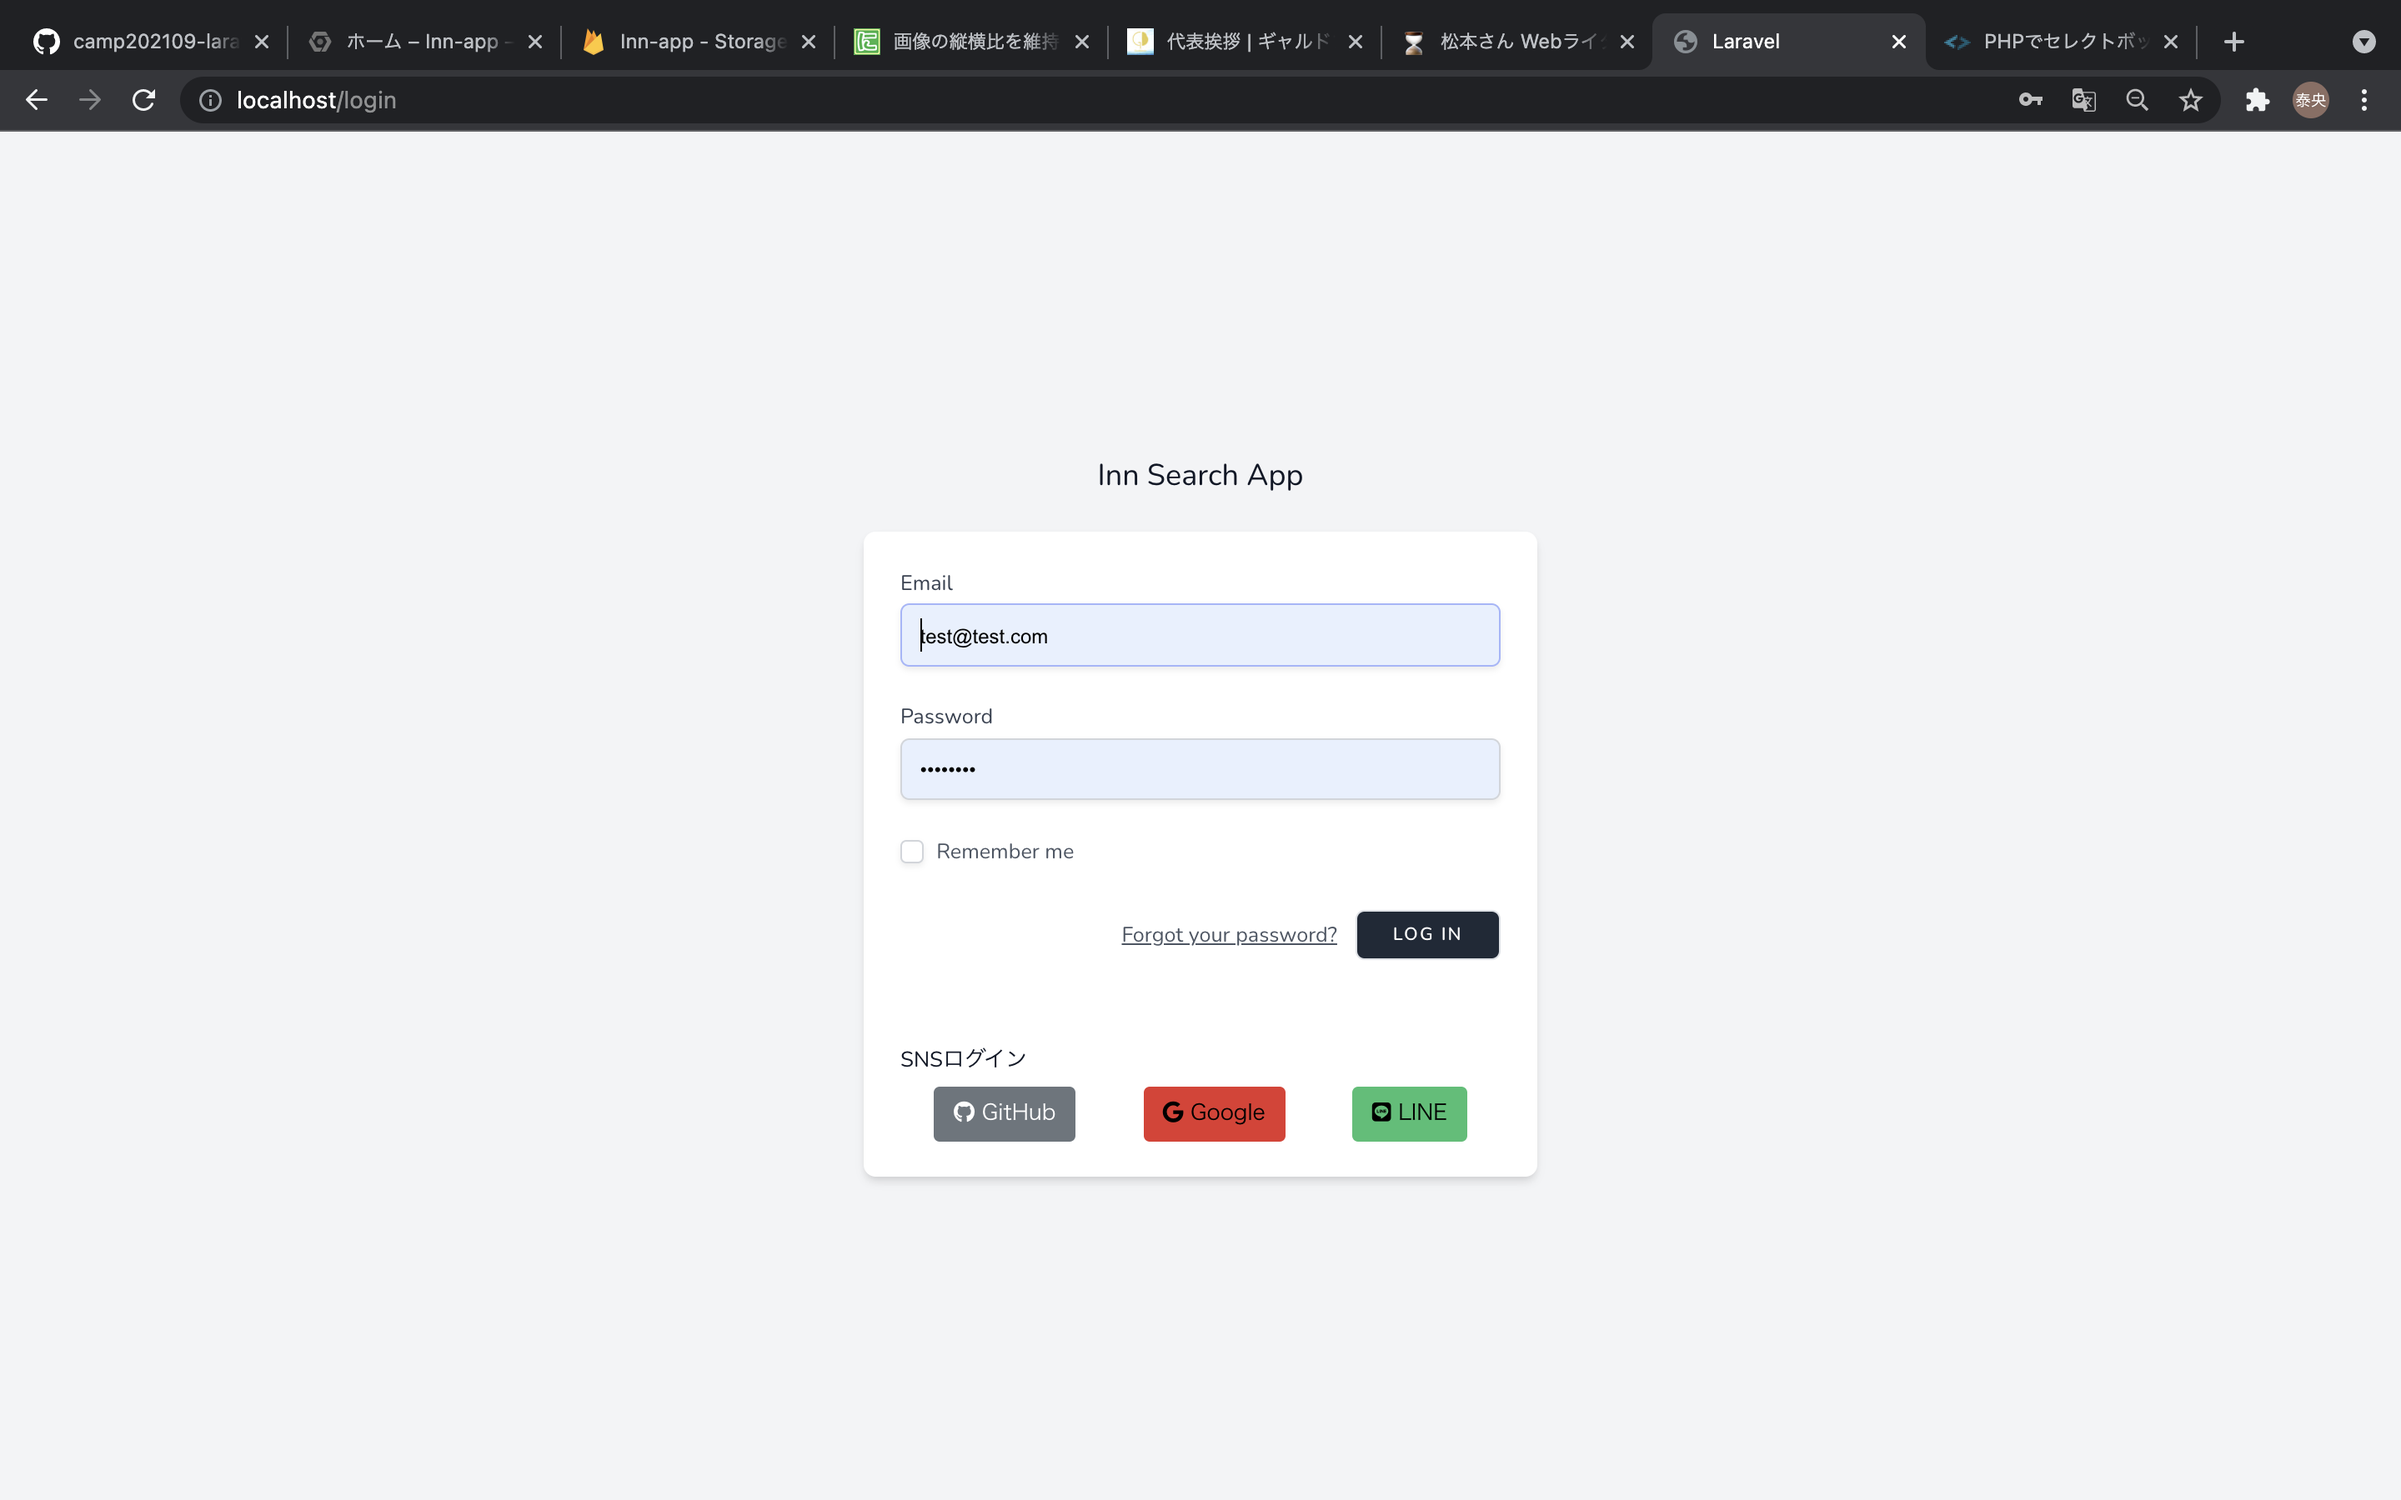
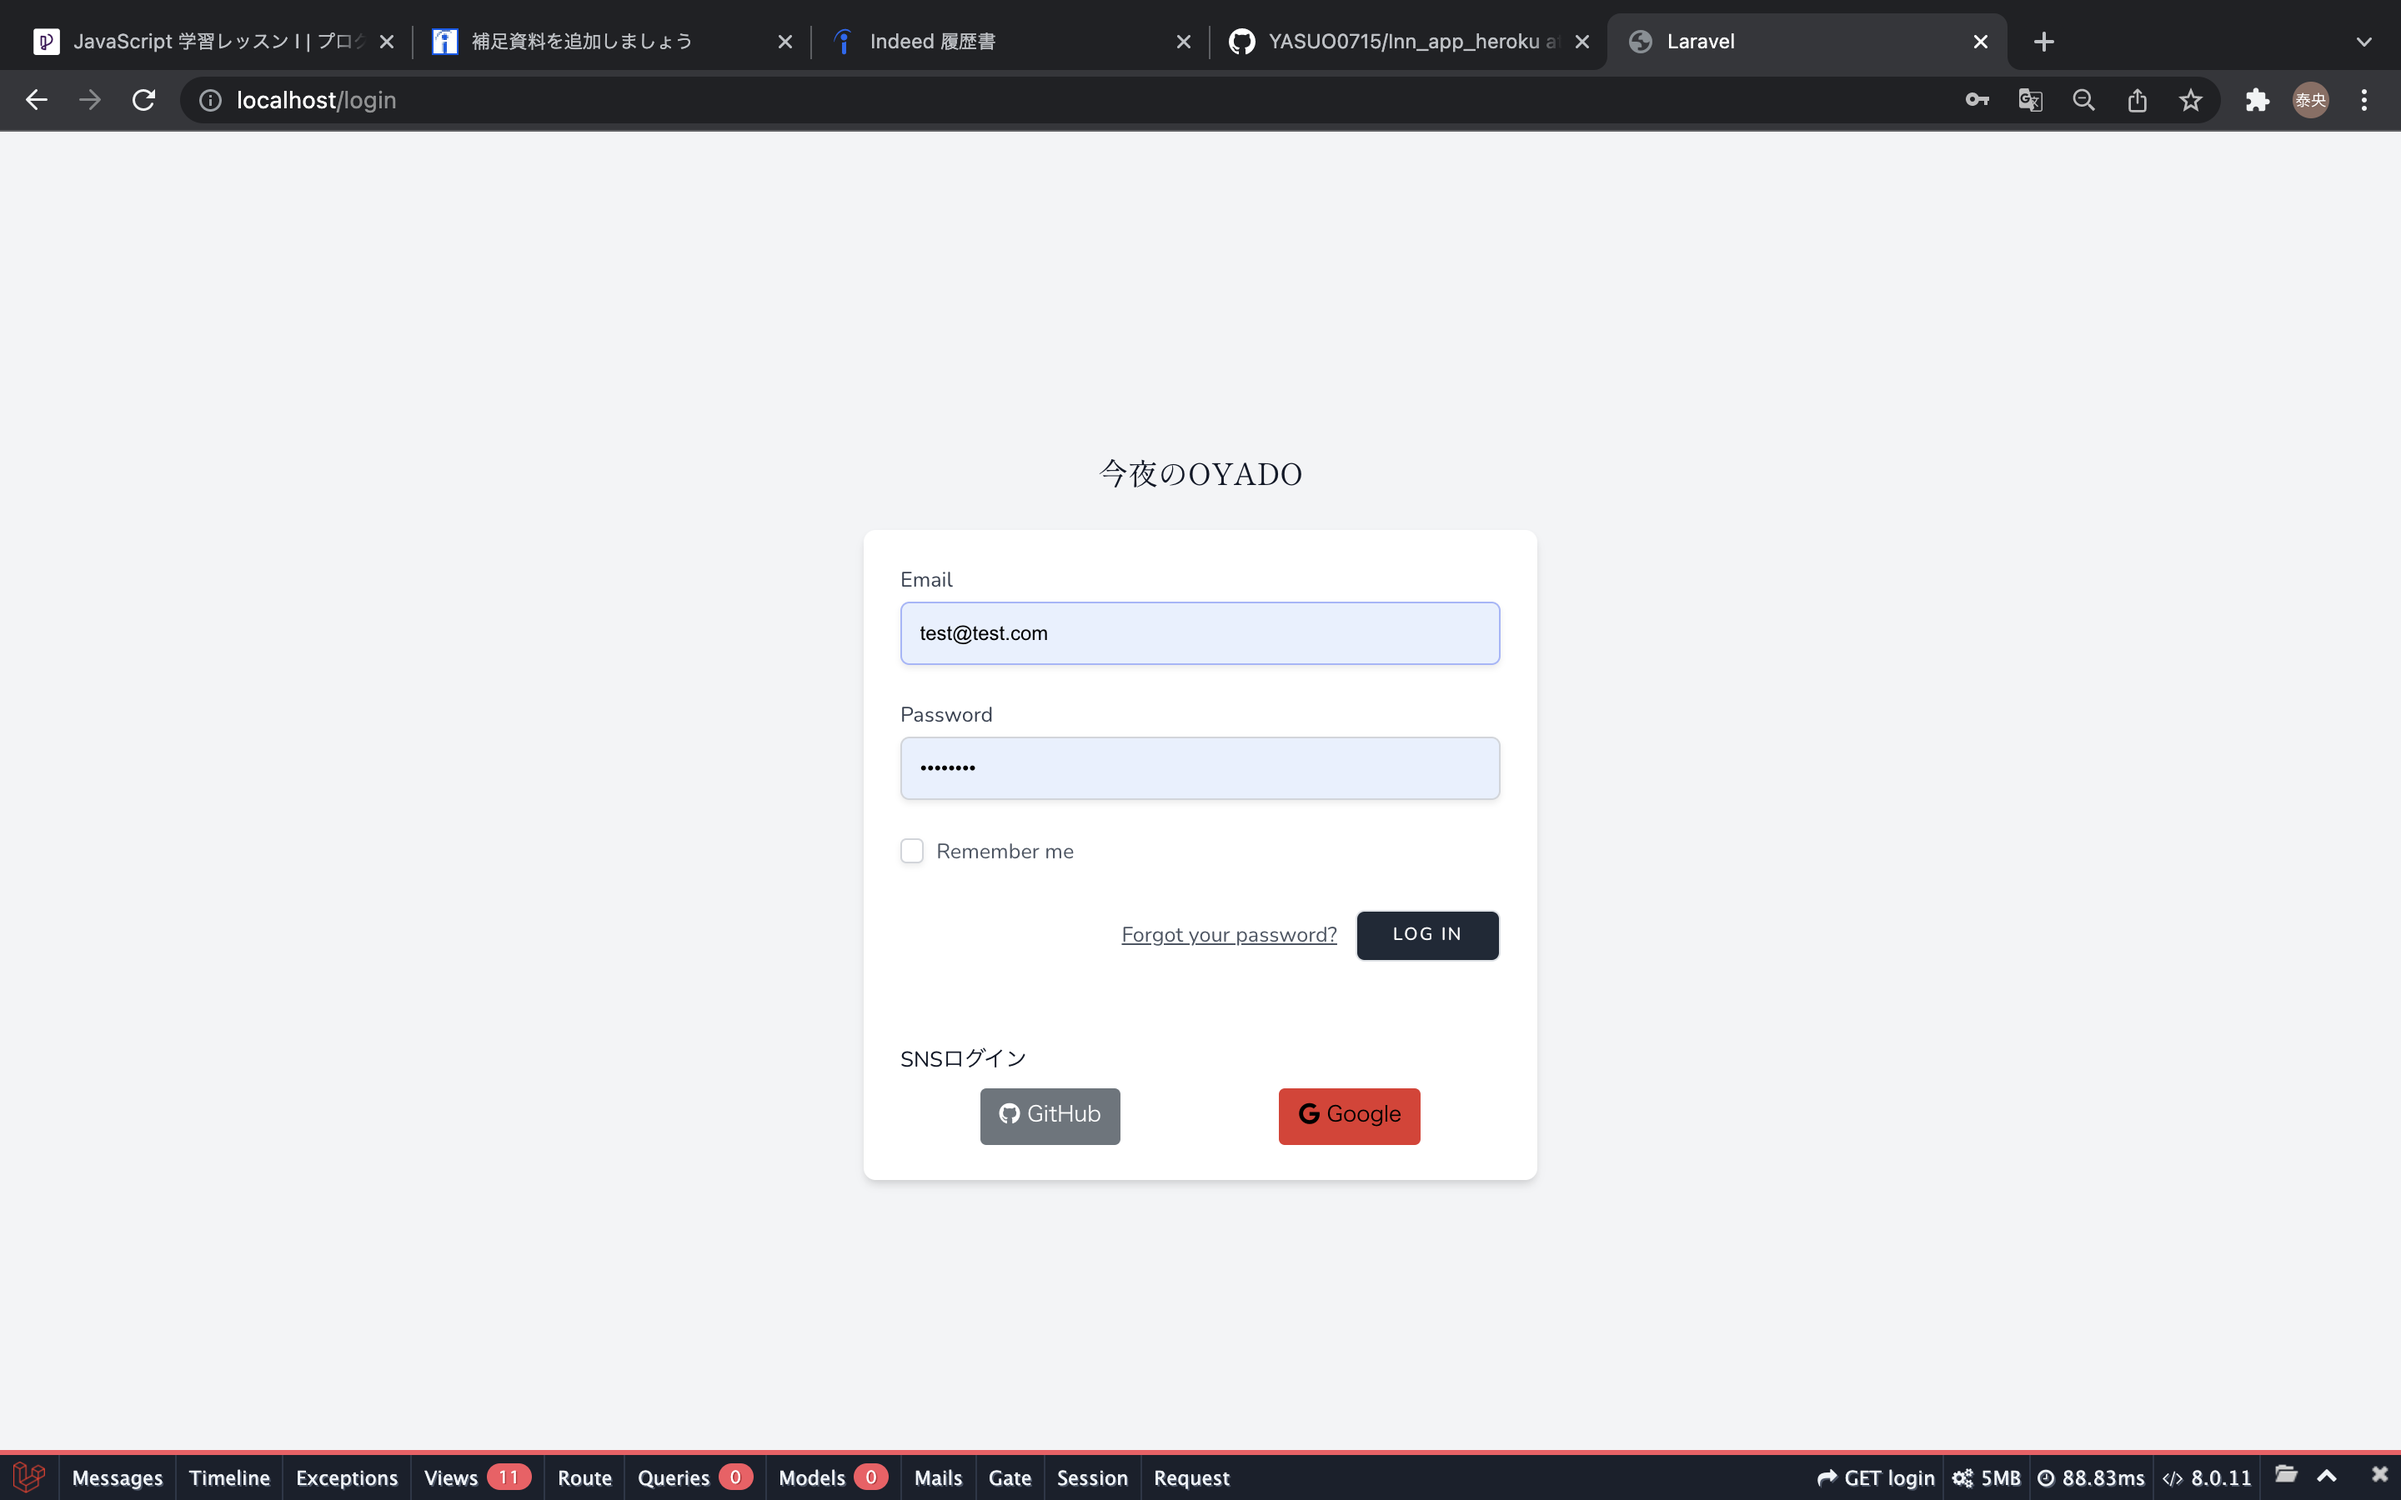
READMEを更新2

diff --git a/README.md b/README.md
@@ -3,12 +3,13 @@
 
 ## About this app
 ---
-* 八幡平の宿をCRUDできるアプリ
-* 八幡平の宿を検索できるアプリ
+* 宿をCRUDできるアプリ
+* 現在地より近い順に登録してある宿データが表示され、MAP上にピンが刺される。
+* 当日対応可能な宿のみ表示される
 
 ## 実装機能
 ---
-* 現在地から近い順にソート
+* 現在地を取得し近い順に登録宿をソート
   * このアプリの核となる機能です。現在地から近い順にソートで表示されGoogleマップ上にピンがドロップされます。
 
 * CRUD
@@ -22,7 +23,7 @@
 
 * Articleモデルに、User Category Status 各モデルが外部キーとして紐付いています。
 
-* SNS認証機能を2つ追加しました。
+* SNS認証機能を3つ追加しました。
 
 ## 画面
 ---
